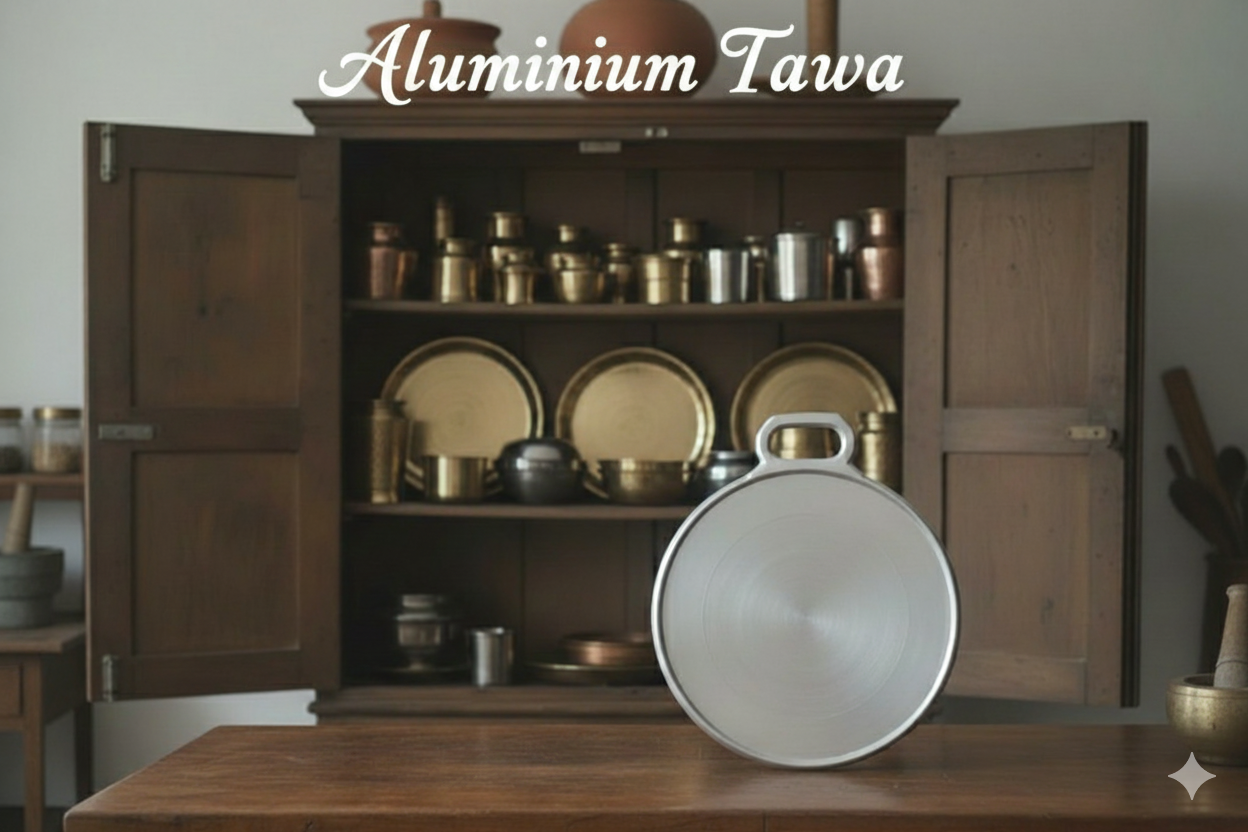
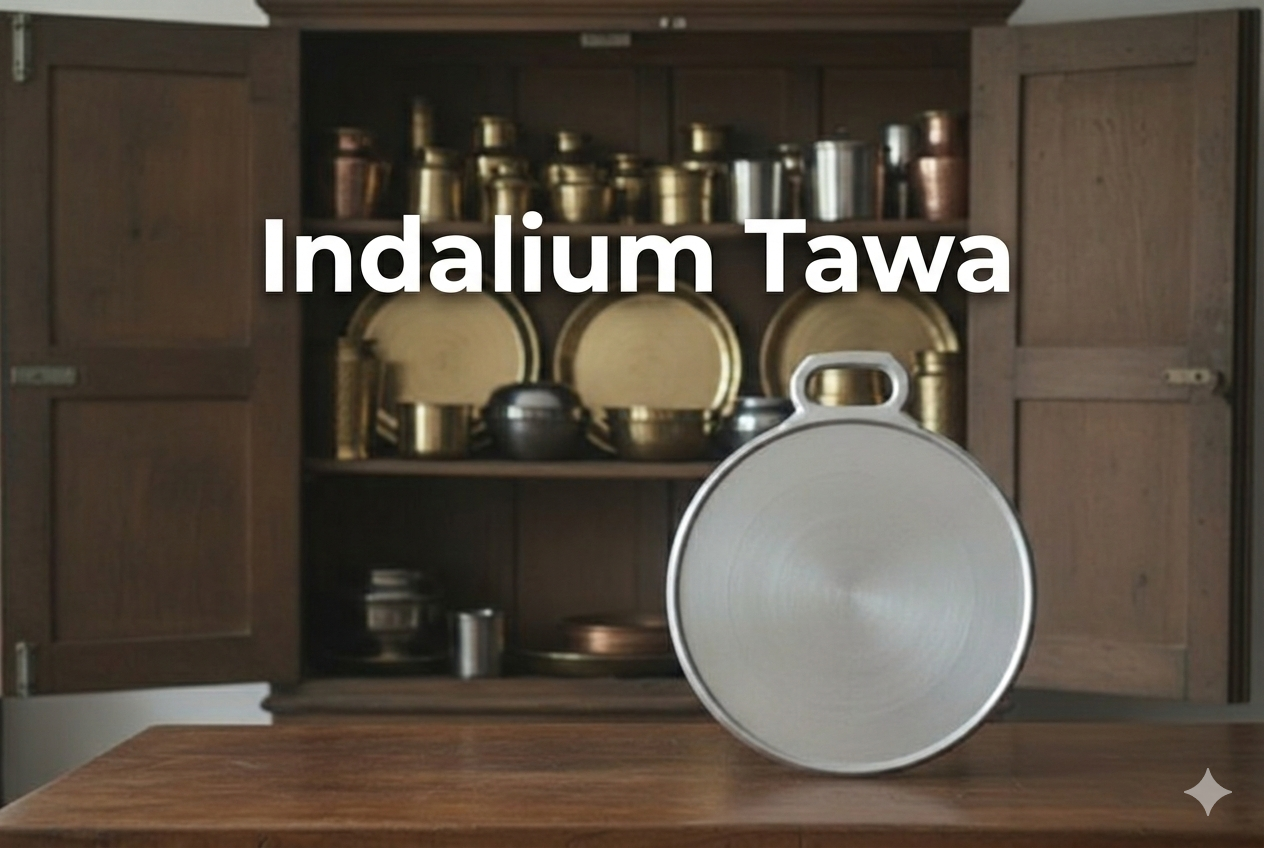
changes in product

diff --git a/project.html b/project.html
@@ -295,7 +295,7 @@
 
 
                             <div class="card-body h-100 d-flex flex-column justify-content-center p-4">
-                                <h3 class="card-title text-uppercase fw-bold text-dark mb-3">Aluminium Indolium Uruli
+                                <h3 class="card-title text-uppercase fw-bold text-dark mb-3"> Indalium Uruli
                                 </h3>
                                 <p class="card-text text-muted mb-3">
 
@@ -522,7 +522,7 @@
 
 
                             <div class="card-body h-100 d-flex flex-column justify-content-center p-4">
-                                <h3 class="card-title text-uppercase fw-bold text-dark mb-3"> Dosha Thava </h3>
+                                <h3 class="card-title text-uppercase fw-bold text-dark mb-3"> Dosha Thawa </h3>
                                 <p class="card-text text-muted mb-3">
                                 <ul>
                                     <li>A specialized, lightweight aluminium pan </li>
@@ -549,6 +549,328 @@
 
         </div>
         <!-- PRD 3END -->
+
+
+
+
+
+
+
+        <!-- PRD 4 -->
+        <div class="row justify-content-center">
+            <div class="col-lg-10">
+
+                <!-- Product Card 1: Residential Project -->
+                <div class="card mb-5 shadow-lg border-0" style="border-radius: 15px; overflow: hidden;">
+                    <div class="row g-0">
+                        <div class="col-md-8">
+                            <div class="card-image-container position-relative"
+                                style="height: 400px; overflow: hidden;">
+                                <div class="card-images position-relative w-100 h-85" data-card="3">
+                                    <img src="img/kadai/kadai details.png" alt="Residential 1"
+                                        class="active position-absolute w-100 h-85"
+                                        style="top: 0; left: 0; object-fit: cover; opacity: 1; transition: opacity 0.5s ease-in-out;">
+                                    <img src="img/kadai/kadai 1.png" alt="Residential 2"
+                                        class="active position-absolute w-100 h-85"
+                                        style="top: 0; left: 0; object-fit: cover; opacity: 0; transition: opacity 0.5s ease-in-out;">
+                                    <img src="img/kadai/kadai 2.png" alt="Residential 3"
+                                        class="position-absolute w-100 h-85"
+                                        style="top: 0; left: 0; object-fit: cover; opacity: 0; transition: opacity 0.5s ease-in-out;">
+                                    <img src="img/kadai/kadai 3.png" alt="Residential 4"
+                                        class="position-absolute w-100 h-85"
+                                        style="top: 0; left: 0; object-fit: cover; opacity: 0; transition: opacity 0.5s ease-in-out;">
+                                    <img src="img/kadai/kadai 4.png" alt="Residential 5"
+                                        class="position-absolute w-100 h-85"
+                                        style="top: 0; left: 0; object-fit: cover; opacity: 0; transition: opacity 0.5s ease-in-out;">
+                                    <img src="img/kadai/kadai 5.png" alt="Residential 6"
+                                        class="position-absolute w-100 h-85"
+                                        style="top: 0; left: 0; object-fit: cover; opacity: 0; transition: opacity 0.5s ease-in-out;">
+                                    <img src="img/kadai/kadai 6.png" alt="Residential 7"
+                                        class="position-absolute w-100 h-85"
+                                        style="top: 0; left: 0; object-fit: cover; opacity: 0; transition: opacity 0.5s ease-in-out;">
+                                    <img src="img/kadai/kadai 7.png" alt="Residential 8"
+                                        class="position-absolute w-100 h-85"
+                                        style="top: 0; left: 0; object-fit: cover; opacity: 0; transition: opacity 0.5s ease-in-out;">
+                                    <img src="img/kadai/kadai 8.png" alt="Residential 9"
+                                        class="position-absolute w-100 h-85"
+                                        style="top: 0; left: 0; object-fit: cover; opacity: 0; transition: opacity 0.5s ease-in-out;">
+                                    <img src="img/kadai/kadai 9.png" alt="Residential 10"
+                                        class="position-absolute w-100 h-85"
+                                        style="top: 0; left: 0; object-fit: cover; opacity: 0; transition: opacity 0.5s ease-in-out;">
+
+                                </div>
+
+
+                                <div class="card-dots">
+                                    <span onclick="showCardImage(3, 0)"></span>
+                                    <span class="card-dot" onclick="showCardImage(3, 1)"></span>
+                                    <span class="card-dot" onclick="showCardImage(3, 2)"></span>
+                                    <span class="card-dot" onclick="showCardImage(3, 3)"></span>
+                                    <span class="card-dot" onclick="showCardImage(3, 4)"></span>
+                                    <span class="card-dot" onclick="showCardImage(3, 5)"></span>
+                                    <span class="card-dot" onclick="showCardImage(3, 6)"></span>
+                                    <span class="card-dot" onclick="showCardImage(3, 7)"></span>
+                                    <span class="card-dot" onclick="showCardImage(3, 8)"></span>
+                                    <span class="card-dot" onclick="showCardImage(3, 9)"></span>
+                                    <span class="card-dot" onclick="showCardImage(3, 10)"></span>
+
+                                </div>
+                            </div>
+                        </div>
+                        <div class="col-md-4">
+
+
+                            <div class="dropdown">
+                                <button class="btn btn-outline-primary btn-sm dropdown-toggle" type="button"
+                                    id="sizeDropdown" data-bs-toggle="dropdown" aria-expanded="false">
+                                    Select size
+                                </button>
+                                <ul class="dropdown-menu overflow-auto" aria-labelledby="sizeDropdown"
+                                    style="max-height: 240px; overflow-x: hidden;">
+                                    <li><a class="dropdown-item"
+                                            onclick="showCardImage(3,0); updateSizeSelection(2,0); document.getElementById('sizeDropdown').textContent='Item'">Item</a>
+                                    </li>
+                                    <li><a class="dropdown-item"
+                                            onclick="showCardImage(3,1); updateSizeSelection(2,1); document.getElementById('sizeDropdown').textContent='size 1'">size
+                                            1</a>
+                                    </li>
+                                    <li><a class="dropdown-item"
+                                            onclick="showCardImage(3,2); updateSizeSelection(2,2); document.getElementById('sizeDropdown').textContent='size 2'">size
+                                            2</a>
+                                    </li>
+                                    <li><a class="dropdown-item"
+                                            onclick="showCardImage(3,3); updateSizeSelection(2,3); document.getElementById('sizeDropdown').textContent='size 3'">size
+                                            3</a>
+                                    </li>
+                                    <li><a class="dropdown-item"
+                                            onclick="showCardImage(3,4); updateSizeSelection(2,4); document.getElementById('sizeDropdown').textContent='size 4'">size
+                                            4</a>
+                                    </li>
+                                    <li><a class="dropdown-item"
+                                            onclick="showCardImage(3,5); updateSizeSelection(2,5); document.getElementById('sizeDropdown').textContent='size 5'">size
+                                            5</a>
+                                    </li>
+                                    <li><a class="dropdown-item"
+                                            onclick="showCardImage(3,6); updateSizeSelection(2,6); document.getElementById('sizeDropdown').textContent='size 6'">size
+                                            6</a>
+                                    </li>
+                                    <li><a class="dropdown-item"
+                                            onclick="showCardImage(3,7); updateSizeSelection(2,7); document.getElementById('sizeDropdown').textContent='size 7'">size
+                                            7</a>
+                                    </li>
+                                    <li><a class="dropdown-item"
+                                            onclick="showCardImage(3,8); updateSizeSelection(2,8); document.getElementById('sizeDropdown').textContent='size 8'">size
+                                            8</a>
+                                    </li>
+                                    <li><a class="dropdown-item"
+                                            onclick="showCardImage(3,9); updateSizeSelection(2,9); document.getElementById('sizeDropdown').textContent='size 9'">size
+                                            9</a>
+                                    </li>
+
+
+                                </ul>
+                            </div>
+
+
+
+
+                            <div class="card-body h-100 d-flex flex-column justify-content-center p-4">
+                                <h3 class="card-title text-uppercase fw-bold text-dark mb-3"> Kadai </h3>
+                                <p class="card-text text-muted mb-3">
+                                <ul>
+                                    <li> <b>Authentic Traditional Cooking:</b> Designed to give you that classic
+                                        home-cooked taste for all your favorite deep-fried and sautéed dishes.</li>
+                                    <li><b>Heavy-Duty Durability:</b> Built to last for years; it won't rust, dent, or
+                                        scratch even with the daily use of metal spoons.</li>
+                                    <li><b>Healthy & Chemical-Free:</b>Made without any artificial non-stick coatings,
+                                        providing a natural and safe way to cook for your family.</li>
+                                    <li><b>Low Maintenance:</b> Very easy to clean and maintain, becoming even more
+                                        seasoned and better to cook with over time.</li>
+                                </ul>
+                                </p>
+
+                            </div>
+                        </div>
+                    </div>
+                </div>
+            </div>
+        </div>
+        <!-- PRD 4END -->
+
+
+
+
+
+        <!-- PRD 4 -->
+        <div class="row justify-content-center">
+            <div class="col-lg-10">
+
+                <!-- Product Card 1: Residential Project -->
+                <div class="card mb-5 shadow-lg border-0" style="border-radius: 15px; overflow: hidden;">
+                    <div class="row g-0">
+                        <div class="col-md-8">
+                            <div class="card-image-container position-relative"
+                                style="height: 400px; overflow: hidden;">
+                                <div class="card-images position-relative w-100 h-85" data-card="4">
+                                    <img src="img/warp/warphome.png" alt="Residential 1"
+                                        class="active position-absolute w-100 h-85"
+                                        style="top: 0; left: 0; object-fit: cover; opacity: 1; transition: opacity 0.5s ease-in-out;">
+                                    <img src="img/warp/warp 1.png" alt="Residential 2"
+                                        class="active position-absolute w-100 h-85"
+                                        style="top: 0; left: 0; object-fit: cover; opacity: 0; transition: opacity 0.5s ease-in-out;">
+                                    <img src="img/warp/warp 2.png" alt="Residential 3"
+                                        class="position-absolute w-100 h-85"
+                                        style="top: 0; left: 0; object-fit: cover; opacity: 0; transition: opacity 0.5s ease-in-out;">
+                                    <img src="img/warp/warp 3.png" alt="Residential 4"
+                                        class="position-absolute w-100 h-85"
+                                        style="top: 0; left: 0; object-fit: cover; opacity: 0; transition: opacity 0.5s ease-in-out;">
+                                    <img src="img/warp/warp 4.png" alt="Residential 5"
+                                        class="position-absolute w-100 h-85"
+                                        style="top: 0; left: 0; object-fit: cover; opacity: 0; transition: opacity 0.5s ease-in-out;">
+                                    <img src="img/warp/warp 5.png" alt="Residential 6"
+                                        class="position-absolute w-100 h-85"
+                                        style="top: 0; left: 0; object-fit: cover; opacity: 0; transition: opacity 0.5s ease-in-out;">
+                                    <img src="img/warp/warp 6.png" alt="Residential 7"
+                                        class="position-absolute w-100 h-85"
+                                        style="top: 0; left: 0; object-fit: cover; opacity: 0; transition: opacity 0.5s ease-in-out;">
+                                    <img src="img/warp/warp 7.png" alt="Residential 8"
+                                        class="position-absolute w-100 h-85"
+                                        style="top: 0; left: 0; object-fit: cover; opacity: 0; transition: opacity 0.5s ease-in-out;">
+                                    <img src="img/warp/warp 8.png" alt="Residential 9"
+                                        class="position-absolute w-100 h-85"
+                                        style="top: 0; left: 0; object-fit: cover; opacity: 0; transition: opacity 0.5s ease-in-out;">
+                                    <img src="img/warp/warp 9.png.png" alt="Residential 10"
+                                        class="position-absolute w-100 h-85"
+                                        style="top: 0; left: 0; object-fit: cover; opacity: 0; transition: opacity 0.5s ease-in-out;">
+
+                                </div>
+
+
+                                <div class="card-dots">
+                                    <span onclick="showCardImage(4, 0)"></span>
+                                    <span class="card-dot" onclick="showCardImage(4, 1)"></span>
+                                    <span class="card-dot" onclick="showCardImage(4, 2)"></span>
+                                    <span class="card-dot" onclick="showCardImage(4, 3)"></span>
+                                    <span class="card-dot" onclick="showCardImage(4, 4)"></span>
+                                    <span class="card-dot" onclick="showCardImage(4, 5)"></span>
+                                    <span class="card-dot" onclick="showCardImage(4, 6)"></span>
+                                    <span class="card-dot" onclick="showCardImage(4, 7)"></span>
+                                    <span class="card-dot" onclick="showCardImage(4, 8)"></span>
+                                    <span class="card-dot" onclick="showCardImage(4, 9)"></span>
+                                    <span class="card-dot" onclick="showCardImage(4, 10)"></span>
+
+                                </div>
+                            </div>
+                        </div>
+                        <div class="col-md-4">
+
+
+                            <div class="dropdown">
+                                <button class="btn btn-outline-primary btn-sm dropdown-toggle" type="button"
+                                    id="sizeDropdown" data-bs-toggle="dropdown" aria-expanded="false">
+                                    Select size
+                                </button>
+                                <ul class="dropdown-menu overflow-auto" aria-labelledby="sizeDropdown"
+                                    style="max-height: 240px; overflow-x: hidden;">
+                                    <li><a class="dropdown-item"
+                                            onclick="showCardImage(4,0); updateSizeSelection(4,0); document.getElementById('sizeDropdown').textContent='Item'">Item</a>
+                                    </li>
+                                    <li><a class="dropdown-item"
+                                            onclick="showCardImage(4,1); updateSizeSelection(4,1); document.getElementById('sizeDropdown').textContent='size 1'">size
+                                            1</a>
+                                    </li>
+                                    <li><a class="dropdown-item"
+                                            onclick="showCardImage(4,2); updateSizeSelection(4,2); document.getElementById('sizeDropdown').textContent='size 2'">size
+                                            2</a>
+                                    </li>
+                                    <li><a class="dropdown-item"
+                                            onclick="showCardImage(4,3); updateSizeSelection(4,3); document.getElementById('sizeDropdown').textContent='size 3'">size
+                                            3</a>
+                                    </li>
+                                    <li><a class="dropdown-item"
+                                            onclick="showCardImage(4,4); updateSizeSelection(4,4); document.getElementById('sizeDropdown').textContent='size 4'">size
+                                            4</a>
+                                    </li>
+                                    <li><a class="dropdown-item"
+                                            onclick="showCardImage(4,5); updateSizeSelection(4,5); document.getElementById('sizeDropdown').textContent='size 5'">size
+                                            5</a>
+                                    </li>
+                                    <li><a class="dropdown-item"
+                                            onclick="showCardImage(4,6); updateSizeSelection(4,6); document.getElementById('sizeDropdown').textContent='size 6'">size
+                                            6</a>
+                                    </li>
+                                    <li><a class="dropdown-item"
+                                            onclick="showCardImage(4,7); updateSizeSelection(4,7); document.getElementById('sizeDropdown').textContent='size 7'">size
+                                            7</a>
+                                    </li>
+                                    <li><a class="dropdown-item"
+                                            onclick="showCardImage(4,8); updateSizeSelection(4,8); document.getElementById('sizeDropdown').textContent='size 8'">size
+                                            8</a>
+                                    </li>
+                                    <li><a class="dropdown-item"
+                                            onclick="showCardImage(4,9); updateSizeSelection(4,9); document.getElementById('sizeDropdown').textContent='size 9'">size
+                                            9</a>
+                                    </li>
+
+
+                                </ul>
+                            </div>
+
+
+
+
+                            <div class="card-body h-100 d-flex flex-column justify-content-center p-4">
+                                <h3 class="card-title text-uppercase fw-bold text-dark mb-3"> Varp Uruli </h3>
+                                <p class="card-text text-muted mb-3">
+                                <ul>
+                                    <li> <b>Authentic Design: </b> A traditional heavy-duty Uruli crafted for
+                                        slow-cooking rich Payasam and hearty curries.</li>
+                                    <li><b>Durable & Easy Maintenance:</b> Built to last for generations with a sturdy,
+                                        rust-free finish that is easy to clean after every feast. </li>
+                                    <li><b> The Taste of Tradition:</b>Enhance the flavor of your signature recipes with
+                                        the timeless performance of a classic Varp Uruli.</li>
+
+
+                                </ul>
+                                </p>
+
+                            </div>
+                        </div>
+                    </div>
+                </div>
+            </div>
+        </div>
+        <!-- PRD 4END -->
+
+
+
+
+
+
+
+
+
+
+
+
+
+
+
+
+
+
+
+
+
+
+
+
+
+
+
+
+
+
 
     </div>
 
